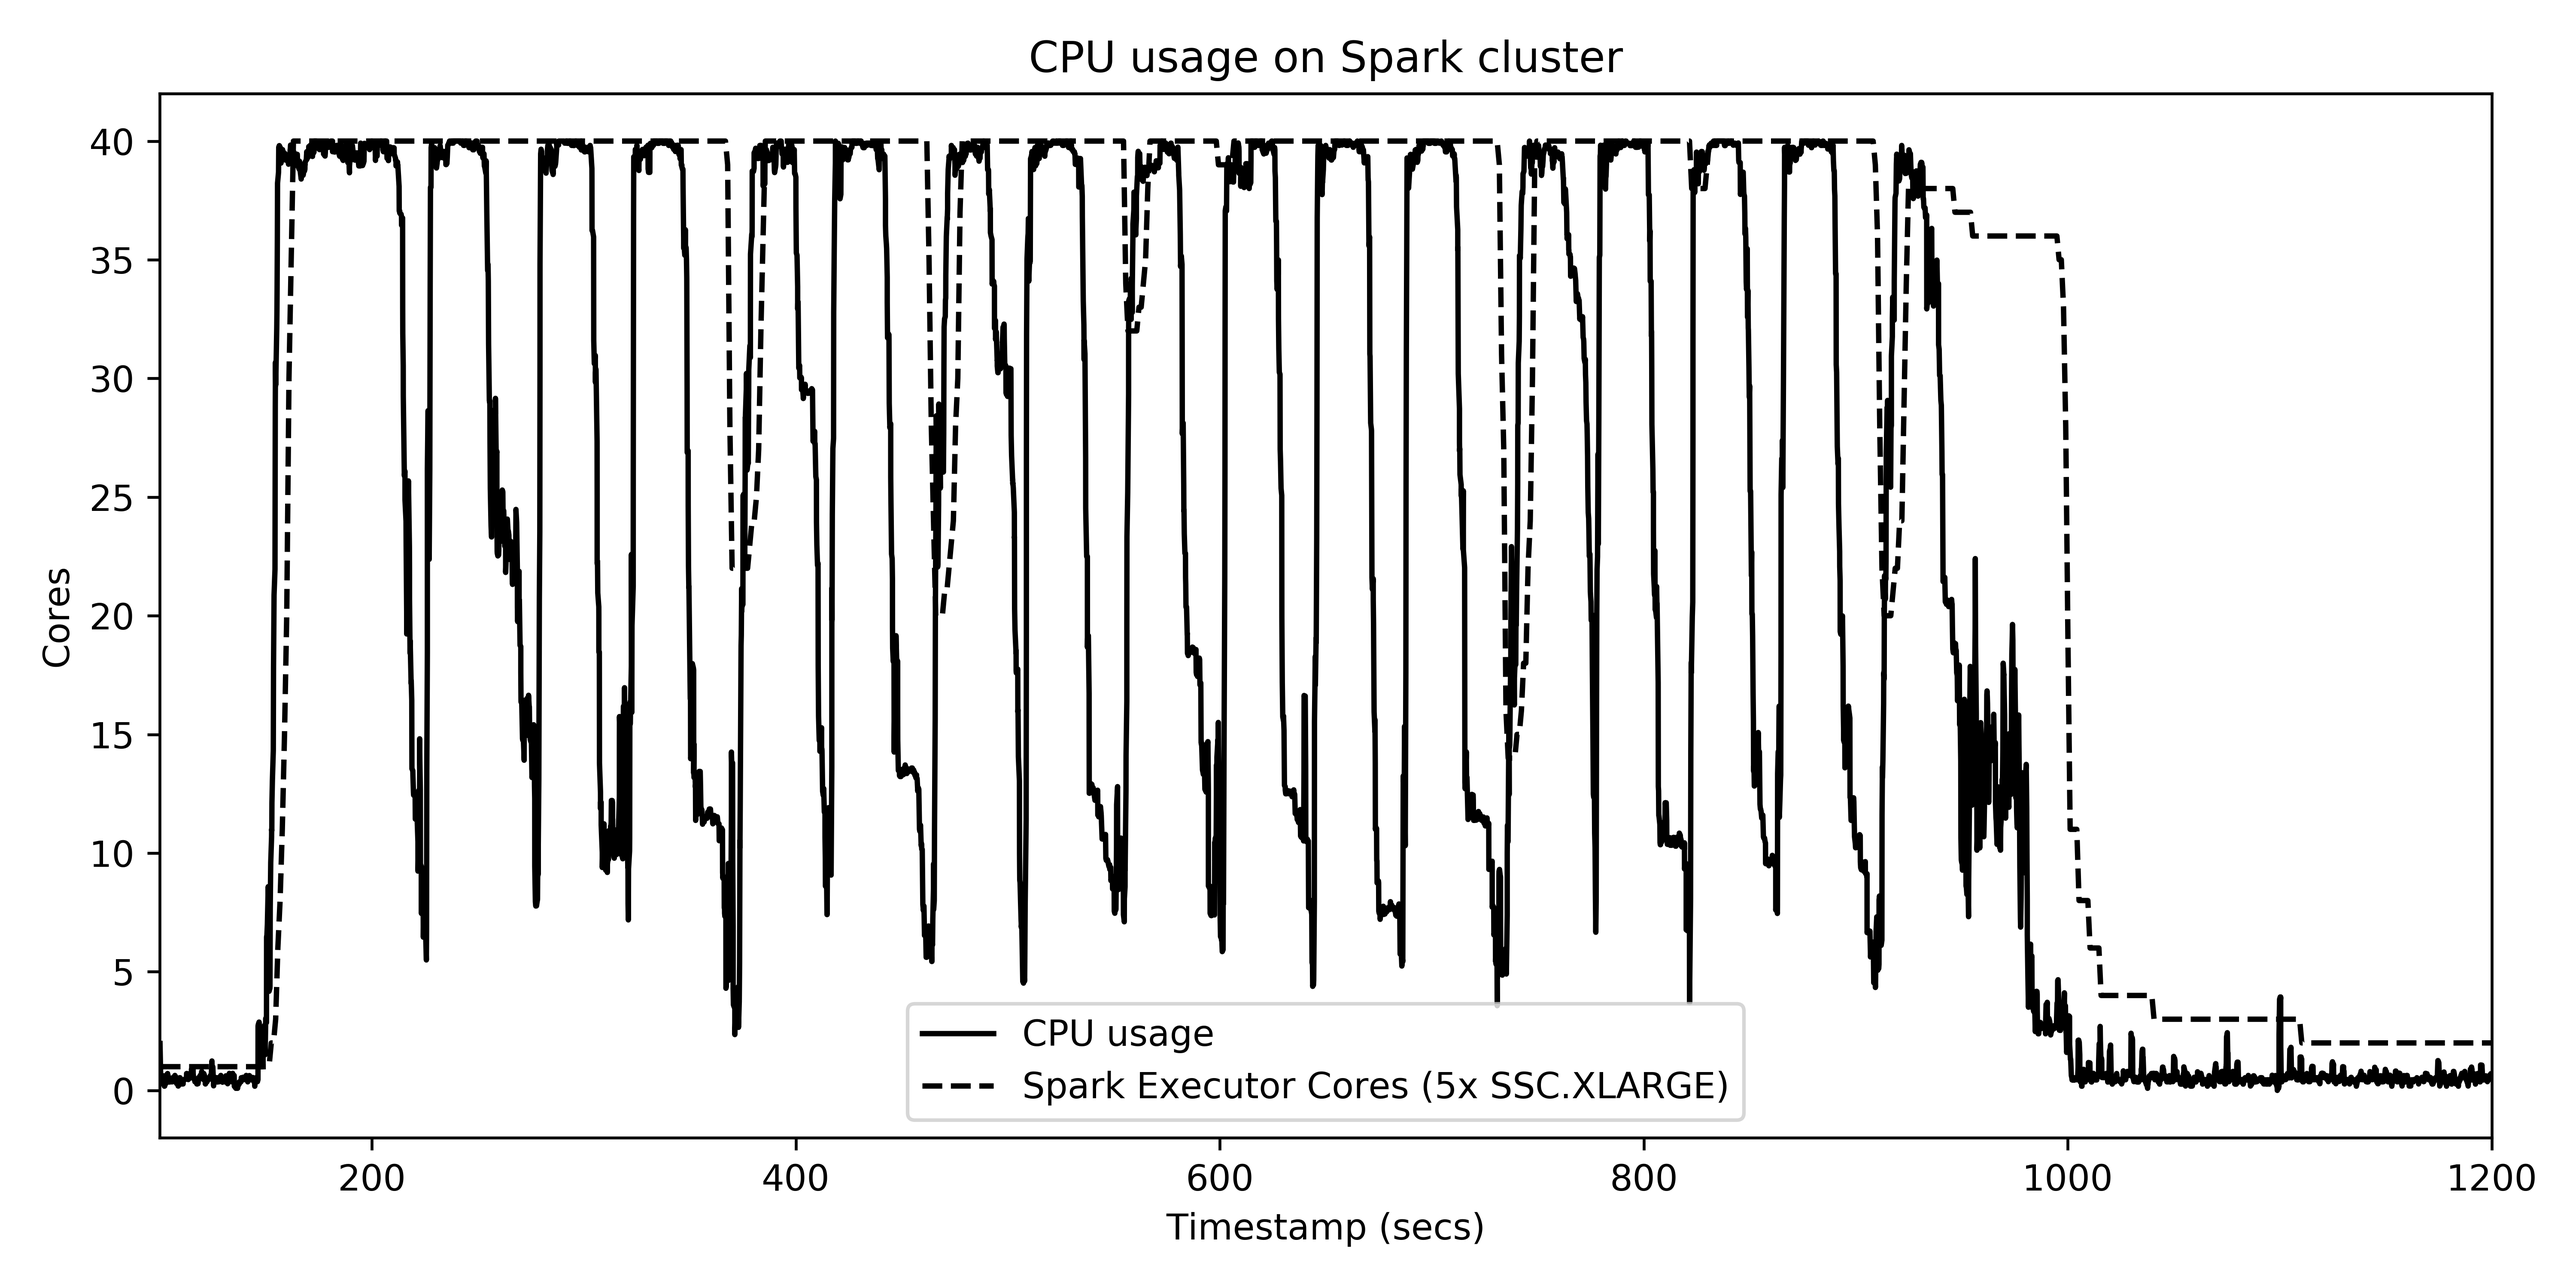
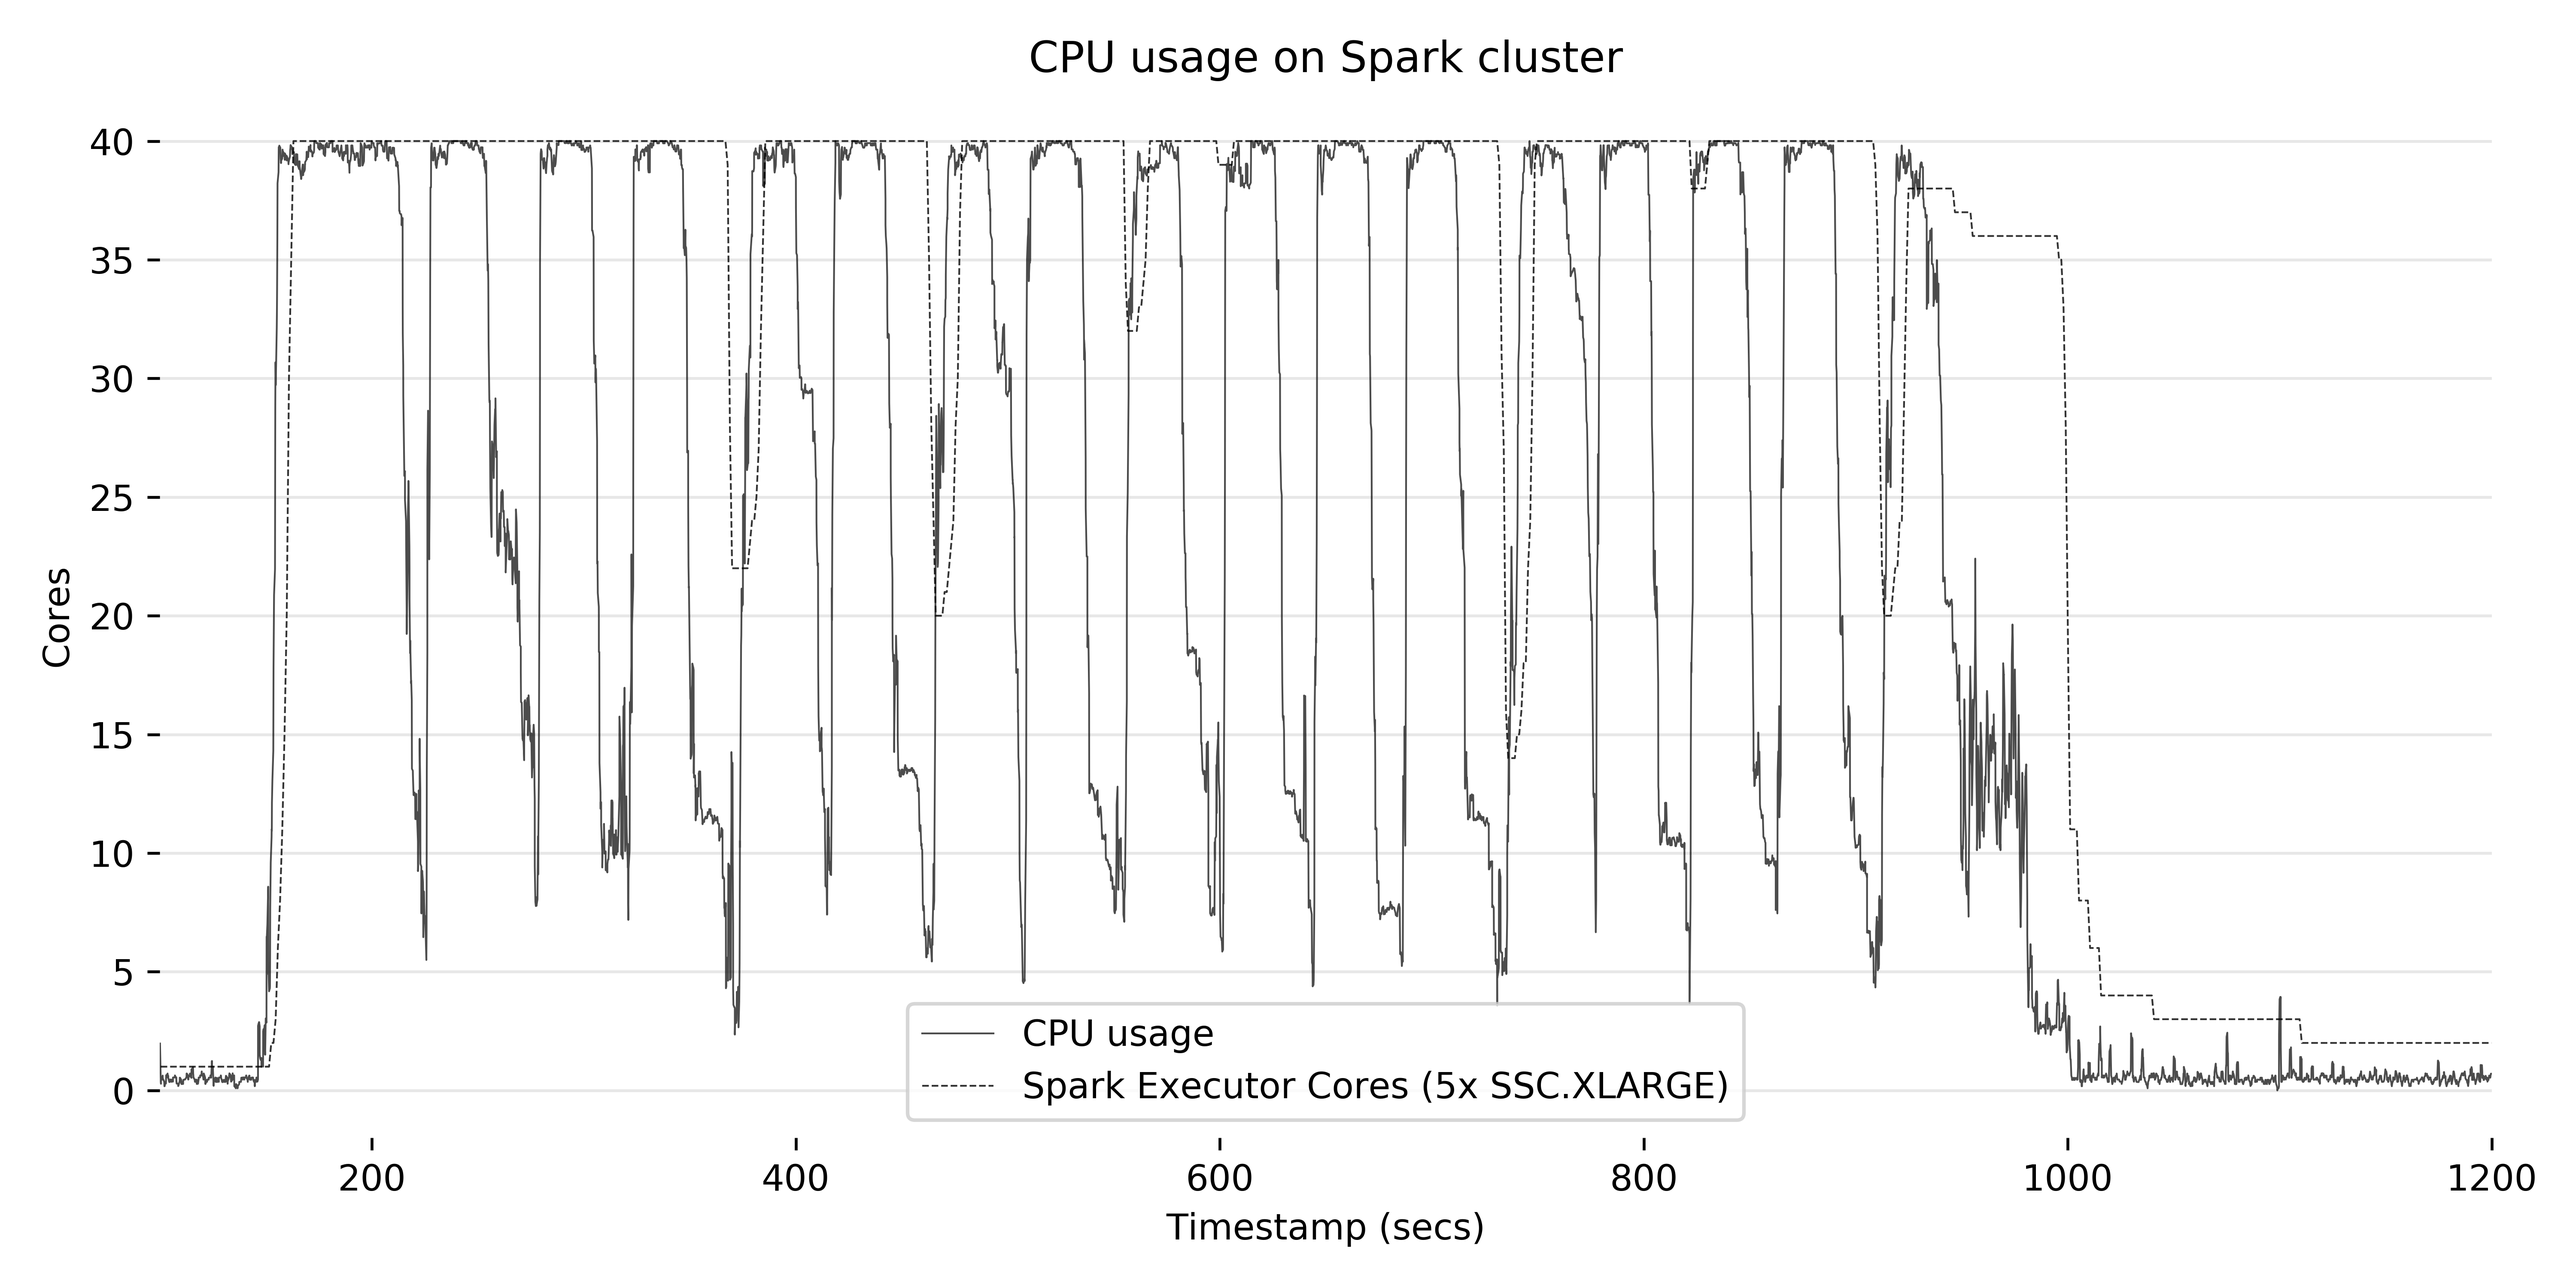
changes from pre-ccgrid review

Changed region(s): [[0.0623, 0.093, 0.9662, 0.868]]

diff --git a/spark/analysis.py b/spark/analysis.py
@@ -106,11 +106,20 @@ if TRIM:
 plt.rc('figure', figsize=(10, 5))
 
 plt.title('CPU usage on Spark cluster')
-plt.plot(cpu_array[:, 0], cpu_array[:, 1] / 5 * 40, label='CPU usage', linestyle='-', color='black')
-plt.plot(cores_array[:, 0], cores_array[:, 1], label='Spark Executor Cores (5x SSC.XLARGE)', linestyle='--', color='black')
+
+
+
+plt.plot(cpu_array[:, 0], cpu_array[:, 1] / 5 * 40, label='CPU usage', linestyle="-", lw= 0.5, color="black", alpha=0.7)
+plt.plot(cores_array[:, 0], cores_array[:, 1], label='Spark Executor Cores (5x SSC.XLARGE)', linestyle="--", lw= 0.5, color="black", alpha=0.8)
 plt.legend()
 plt.xlabel('Timestamp (secs)')
 plt.ylabel('Cores')
+
+# for cons with oliver
+ax = plt.axes()
+ax.yaxis.grid(alpha=0.3) # horizontal lines
+plt.box(False)
+
 if TRIM:
     plt.xlim((start_timestamp, end_timestamp))
 
